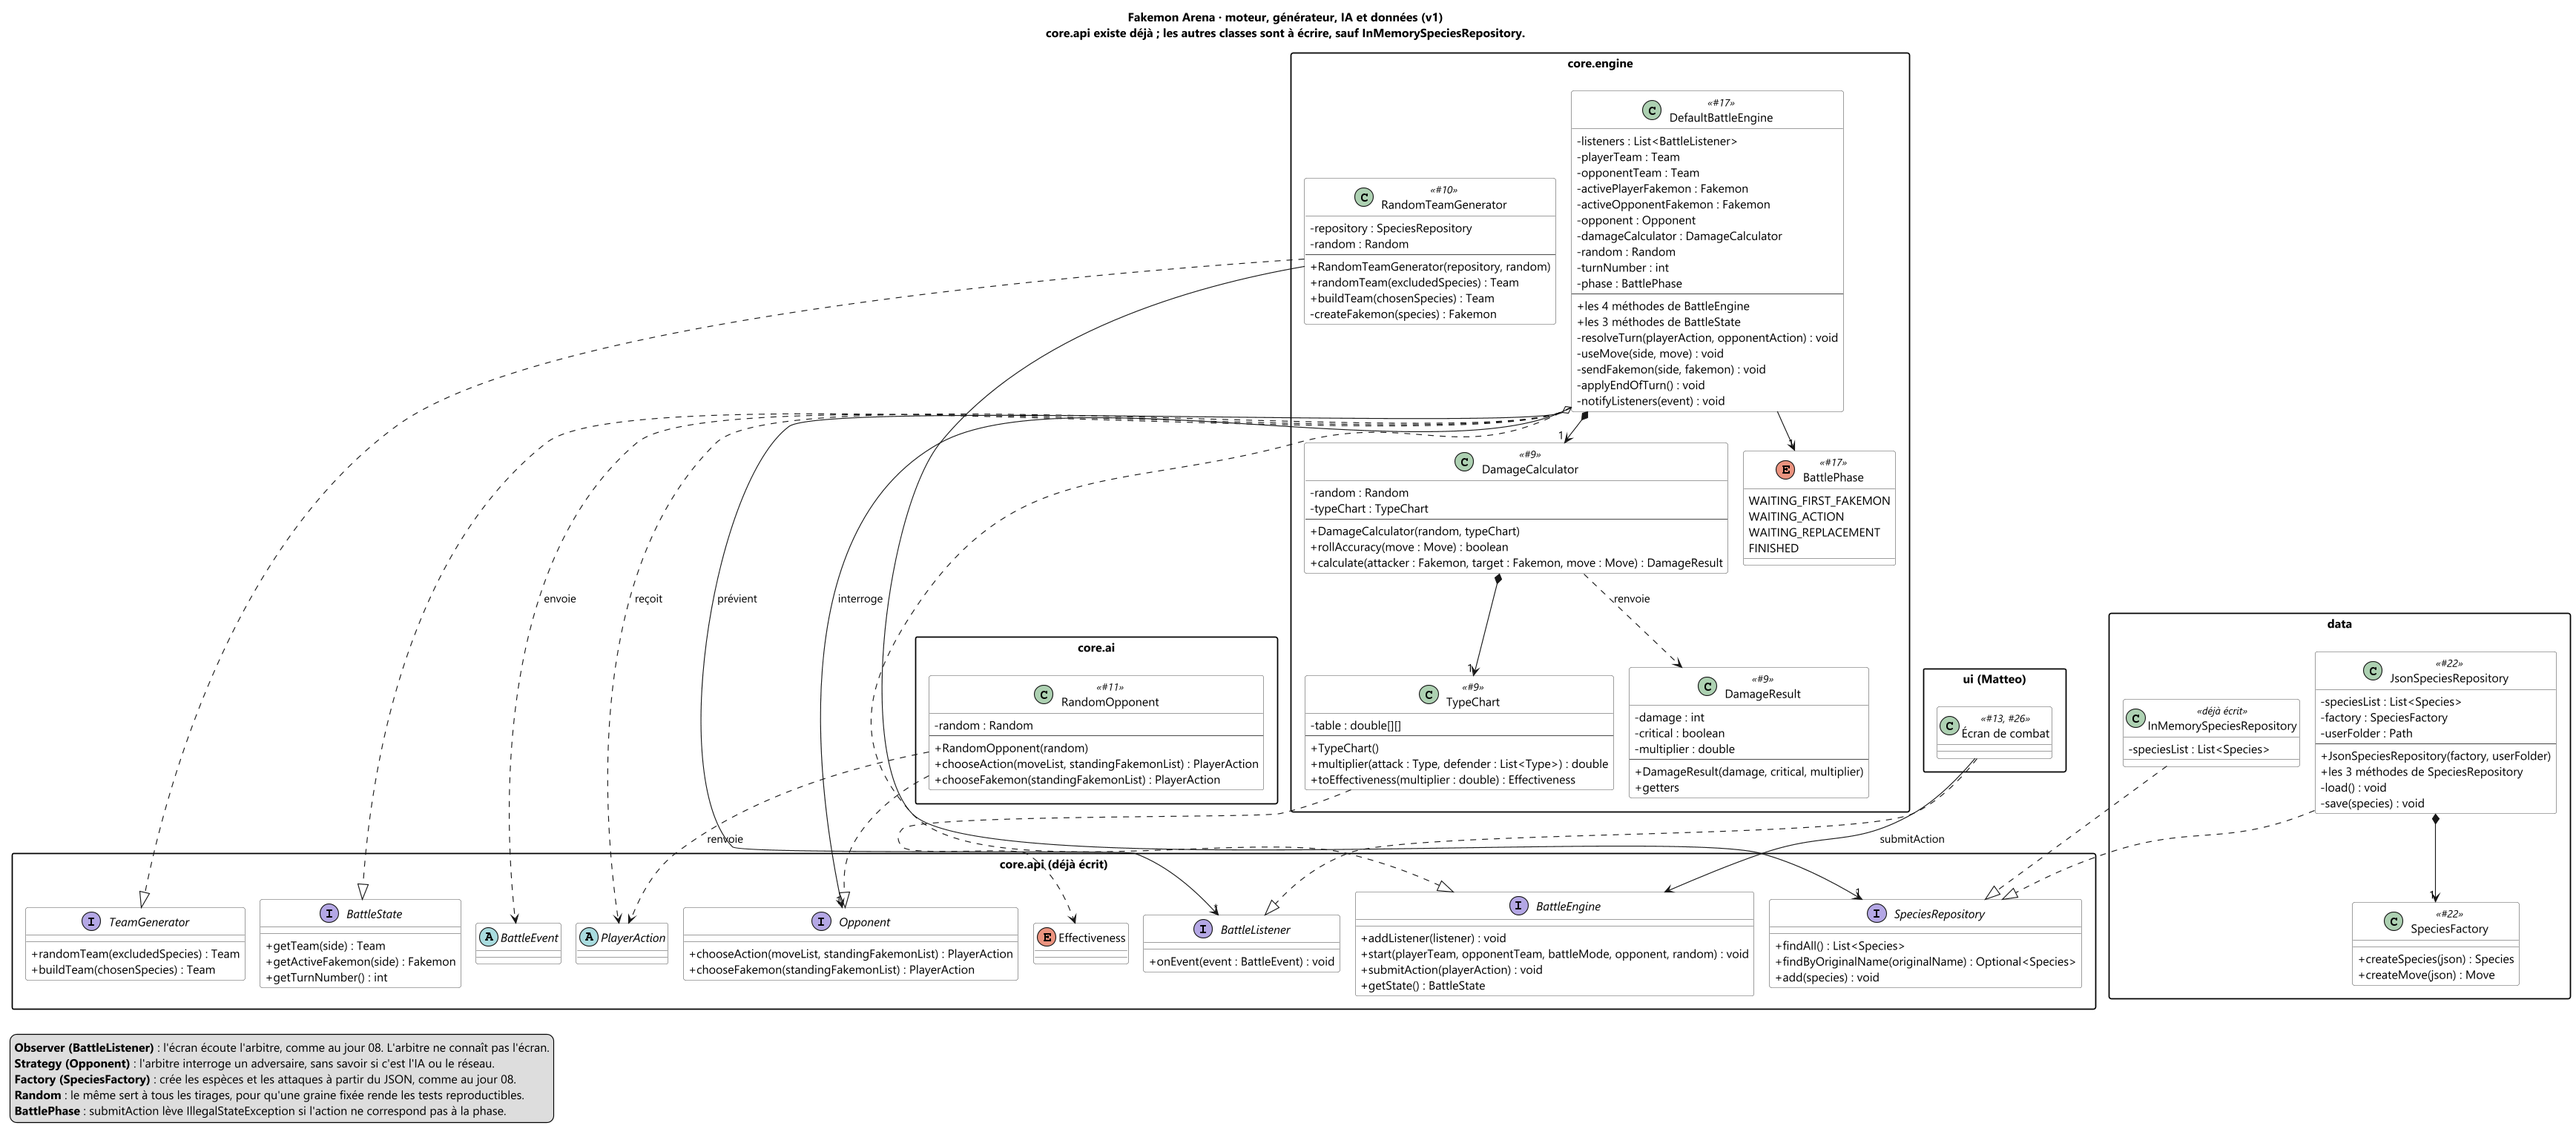
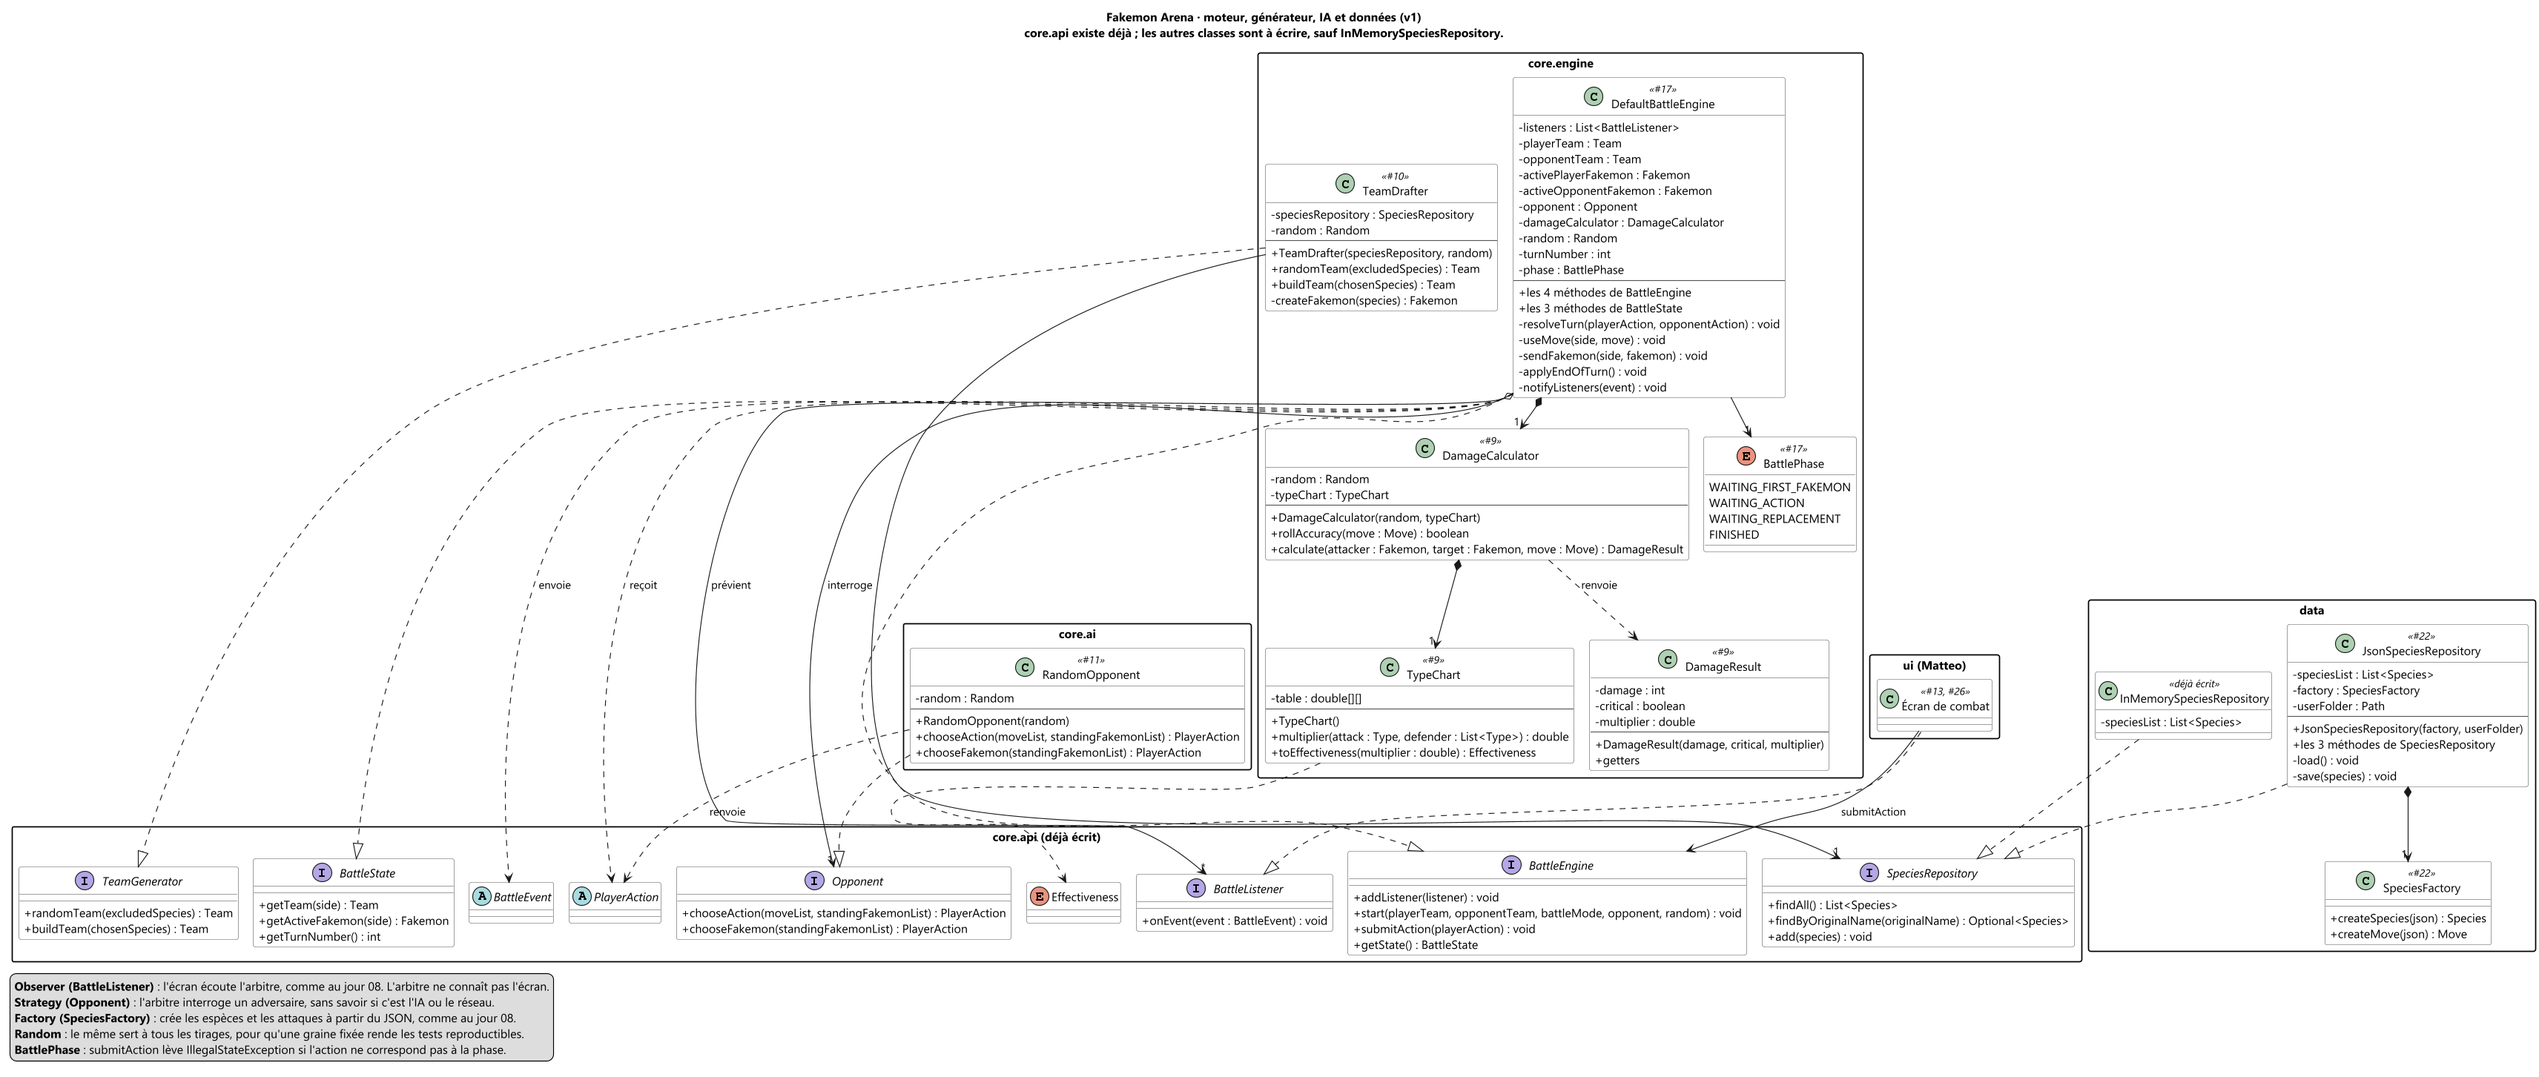
feat: ajoute le tireur d'équipes TeamDrafter et ses tests (#10)

diff --git a/src/test/java/fr/epitech/fakemon/core/engine/TeamDrafterTest.java b/src/test/java/fr/epitech/fakemon/core/engine/TeamDrafterTest.java
@@ -1,0 +1,146 @@
+package fr.epitech.fakemon.core.engine;
+
+import static org.junit.jupiter.api.Assertions.assertEquals;
+import static org.junit.jupiter.api.Assertions.assertFalse;
+import static org.junit.jupiter.api.Assertions.assertThrows;
+import static org.junit.jupiter.api.Assertions.assertTrue;
+
+import fr.epitech.fakemon.core.api.SpeciesRepository;
+import fr.epitech.fakemon.core.model.BaseStats;
+import fr.epitech.fakemon.core.model.Fakemon;
+import fr.epitech.fakemon.core.model.Move;
+import fr.epitech.fakemon.core.model.MoveCategory;
+import fr.epitech.fakemon.core.model.Species;
+import fr.epitech.fakemon.core.model.Team;
+import fr.epitech.fakemon.core.model.Type;
+import java.util.ArrayList;
+import java.util.HashSet;
+import java.util.List;
+import java.util.Optional;
+import java.util.Random;
+import java.util.Set;
+import org.junit.jupiter.api.Test;
+
+/** Vérifie le tirage des équipes sur un faux catalogue, avec des graines fixes pour rester reproductible. */
+class TeamDrafterTest {
+    private static final long SEED = 50;
+
+    @Test
+    void twoTeamsOfSixWithoutDuplicate() {
+        TeamDrafter drafter = new TeamDrafter(createRepository(12), new Random(SEED));
+
+        Team teamA = drafter.randomTeam(List.of());
+        Team teamB = drafter.randomTeam(speciesOf(teamA));
+
+        assertEquals(6, teamA.getFakemons().size());
+        assertEquals(6, teamB.getFakemons().size());
+
+        Set<Species> allSpecies = new HashSet<>();
+        allSpecies.addAll(speciesOf(teamA));
+        allSpecies.addAll(speciesOf(teamB));
+        assertEquals(12, allSpecies.size());
+    }
+
+    @Test
+    void eachFakemonHasFourDifferentPossibleMoves() {
+        TeamDrafter drafter = new TeamDrafter(createRepository(12), new Random(SEED));
+
+        Team team = drafter.randomTeam(List.of());
+
+        for (Fakemon fakemon : team.getFakemons()) {
+            List<Move> moves = fakemon.getMoves();
+            assertEquals(4, new HashSet<>(moves).size());
+            assertTrue(fakemon.getSpecies().getPossibleMoves().containsAll(moves));
+        }
+    }
+
+    @Test
+    void sameSeedGivesSameTeam() {
+        SpeciesRepository repository = createRepository(12);
+        Team firstTeam = new TeamDrafter(repository, new Random(SEED)).randomTeam(List.of());
+        Team secondTeam = new TeamDrafter(repository, new Random(SEED)).randomTeam(List.of());
+
+        assertEquals(speciesOf(firstTeam), speciesOf(secondTeam));
+        for (int i = 0; i < 6; i++) {
+            assertEquals(
+                firstTeam.getFakemons().get(i).getMoves(),
+                secondTeam.getFakemons().get(i).getMoves()
+            );
+        }
+    }
+
+    @Test
+    void lessThanTwelveSpeciesThrows() {
+        TeamDrafter drafter = new TeamDrafter(createRepository(11), new Random(SEED));
+
+        IllegalStateException exception = assertThrows(
+            IllegalStateException.class,
+            () -> drafter.randomTeam(List.of())
+        );
+        assertFalse(exception.getMessage().isBlank());
+    }
+
+    @Test
+    void buildTeamKeepsChosenSpeciesInOrder() {
+        SpeciesRepository repository = createRepository(12);
+        TeamDrafter drafter = new TeamDrafter(repository, new Random(SEED));
+        List<Species> chosenSpecies = repository.findAll().subList(0, 6);
+
+        Team team = drafter.buildTeam(chosenSpecies);
+
+        assertEquals(chosenSpecies, speciesOf(team));
+        for (Fakemon fakemon : team.getFakemons()) {
+            assertEquals(4, new HashSet<>(fakemon.getMoves()).size());
+        }
+    }
+
+    private List<Species> speciesOf(Team team) {
+        List<Species> speciesList = new ArrayList<>();
+        for (Fakemon fakemon : team.getFakemons()) {
+            speciesList.add(fakemon.getSpecies());
+        }
+        return speciesList;
+    }
+
+    private SpeciesRepository createRepository(int speciesCount) {
+        List<Species> speciesList = new ArrayList<>();
+        for (int i = 1; i <= speciesCount; i++) {
+            speciesList.add(createSpecies("Espece" + i));
+        }
+        return new FakeSpeciesRepository(speciesList);
+    }
+
+    /** Crée une espèce avec 6 attaques possibles, pour que le tirage de 4 attaques ait du choix. */
+    private Species createSpecies(String name) {
+        List<Move> possibleMoves = new ArrayList<>();
+        for (int i = 1; i <= 6; i++) {
+            possibleMoves.add(new Move(name + "-attaque" + i, Type.FIRE, MoveCategory.PHYSICAL, 40, 100, 0));
+        }
+        BaseStats stats = new BaseStats(100, 100, 100, 100, 100, 100);
+        return new Species(name, name, List.of(Type.FIRE), stats, possibleMoves);
+    }
+
+    /** Faux catalogue : le générateur n'utilise que findAll. */
+    private static class FakeSpeciesRepository implements SpeciesRepository {
+        private final List<Species> speciesList;
+
+        FakeSpeciesRepository(List<Species> speciesList) {
+            this.speciesList = speciesList;
+        }
+
+        @Override
+        public List<Species> findAll() {
+            return new ArrayList<>(speciesList);
+        }
+
+        @Override
+        public Optional<Species> findByOriginalName(String originalName) {
+            throw new UnsupportedOperationException("Non utilisé par le générateur");
+        }
+
+        @Override
+        public void add(Species species) {
+            throw new UnsupportedOperationException("Non utilisé par le générateur");
+        }
+    }
+}

diff --git a/src/main/java/fr/epitech/fakemon/core/engine/TeamDrafter.java b/src/main/java/fr/epitech/fakemon/core/engine/TeamDrafter.java
@@ -1,0 +1,103 @@
+package fr.epitech.fakemon.core.engine;
+
+import java.util.ArrayList;
+import java.util.List;
+import java.util.Random;
+
+import fr.epitech.fakemon.core.api.SpeciesRepository;
+import fr.epitech.fakemon.core.api.TeamGenerator;
+import fr.epitech.fakemon.core.model.Fakemon;
+import fr.epitech.fakemon.core.model.Move;
+import fr.epitech.fakemon.core.model.Species;
+import fr.epitech.fakemon.core.model.Team;
+
+/**
+ * Prépare les équipes en tirant au hasard dans le catalogue des espèces.
+ * Chaque mon reçoit 4 attaques tirées parmi ses attaques possibles.
+ * Le générateur est reçu de l'extérieur : une graine fixe rend les équipes reproductibles dans les tests.
+ */
+public class TeamDrafter implements TeamGenerator {
+
+    /** Nombre minimum d'espèces pour tirer deux équipes de 6 sans doublon. */
+    private static final int MINIMUM_SPECIES = 12;
+
+    private final Random random;
+    private final SpeciesRepository speciesRepository;
+
+    /**
+     * Crée un générateur d'équipes.
+     *
+     * @param speciesRepository le catalogue dans lequel les espèces sont tirées
+     * @param random générateur utilisé pour tous les tirages
+     */
+    public TeamDrafter(SpeciesRepository speciesRepository, Random random) {
+        this.speciesRepository = speciesRepository;
+        this.random = random;
+    }
+
+    /**
+     * Tire 6 espèces différentes dans le catalogue, en évitant celles de l'autre équipe.
+     *
+     * @param excludedSpecies les espèces déjà prises par l'autre équipe
+     * @return l'équipe tirée
+     * @throws IllegalStateException si le catalogue contient moins de 12 espèces
+     */
+    @Override
+    public Team randomTeam(List<Species> excludedSpecies) {
+        if (speciesRepository.findAll().size() < MINIMUM_SPECIES) {
+            throw new IllegalStateException("Le catalogue contient moins de 12 Fakemon");
+        }
+        List<Species> speciesRepositoryCopy = new ArrayList<Species>(speciesRepository.findAll());
+        speciesRepositoryCopy.removeAll(excludedSpecies);
+        List<Fakemon> fakemonList = new ArrayList<Fakemon>();
+
+        for (int i = 0; i < 6; i++) {
+            Species randomSpecies = speciesRepositoryCopy.get(random.nextInt(speciesRepositoryCopy.size()));
+            speciesRepositoryCopy.remove(randomSpecies);
+            Fakemon chosenFakemon = createFakemon(randomSpecies);
+            fakemonList.add(chosenFakemon);
+        }
+
+        Team chosenTeam = new Team(fakemonList);
+        return chosenTeam;
+    }
+
+    /**
+     * Crée un mon de l'espèce donnée, avec 4 attaques différentes tirées parmi ses attaques possibles.
+     *
+     * @param chosenSpecies l'espèce du mon, avec au moins 4 attaques possibles
+     * @return le mon créé
+     */
+    private Fakemon createFakemon(Species chosenSpecies) {
+        List<Move> possibleMoves = new ArrayList<Move>();
+        possibleMoves.addAll(chosenSpecies.getPossibleMoves());
+        List<Move> chosenMoves = new ArrayList<Move>();
+
+        for (int i = 0; i < 4; i++) {
+            Move randomMove = possibleMoves.get(random.nextInt(possibleMoves.size()));
+            possibleMoves.remove(randomMove);
+            chosenMoves.add(randomMove);
+        }
+        return new Fakemon(chosenSpecies, chosenMoves);
+    }
+
+    /**
+     * Construit l'équipe à partir des espèces choisies par le joueur, dans le même ordre.
+     * Seules les attaques de chaque mon sont tirées au hasard.
+     *
+     * @param chosenSpecies les espèces choisies par le joueur
+     * @return l'équipe construite
+     */
+    @Override
+    public Team buildTeam(List<Species> chosenSpecies) {
+        List<Fakemon> fakemonList = new ArrayList<Fakemon>();
+
+        for (int i = 0; i < chosenSpecies.size(); i++) {
+            Fakemon chosenFakemon = createFakemon(chosenSpecies.get(i));
+            fakemonList.add(chosenFakemon);
+        }
+        Team chosenTeam = new Team(fakemonList);
+        return chosenTeam;
+    }
+
+}
